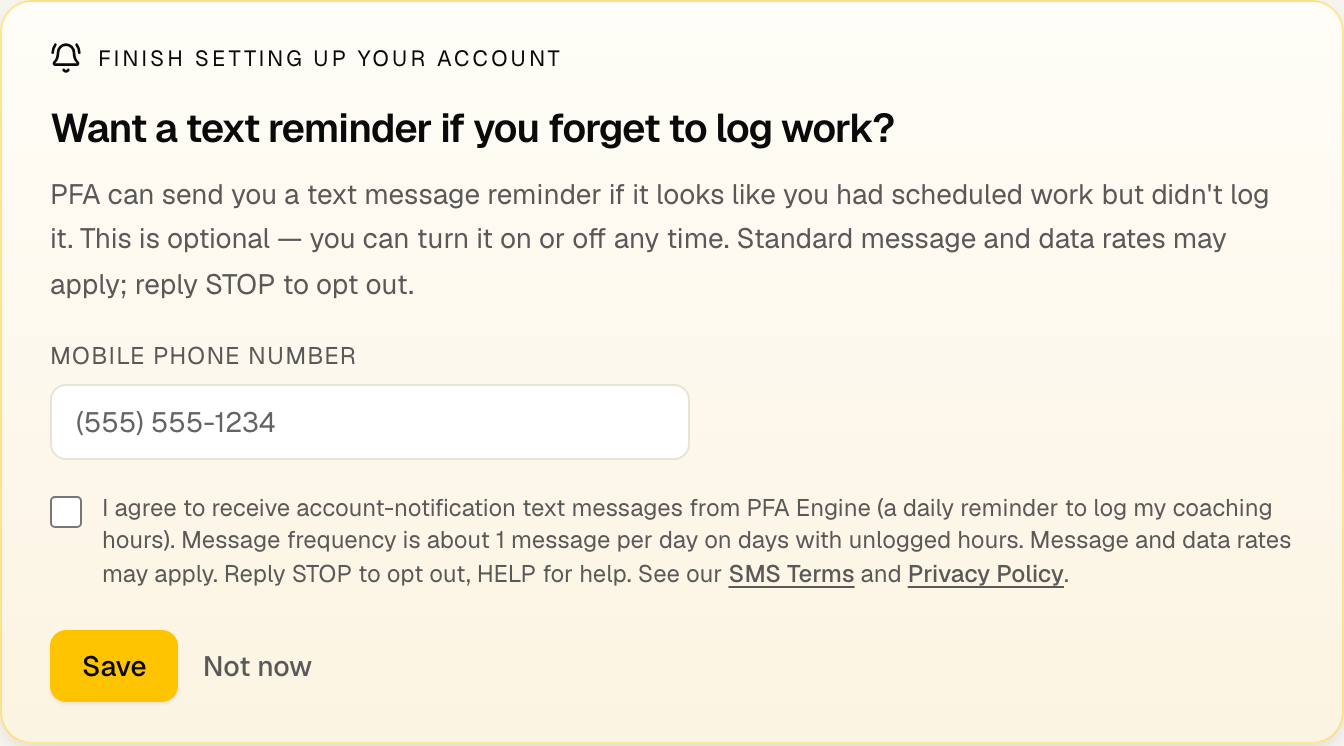
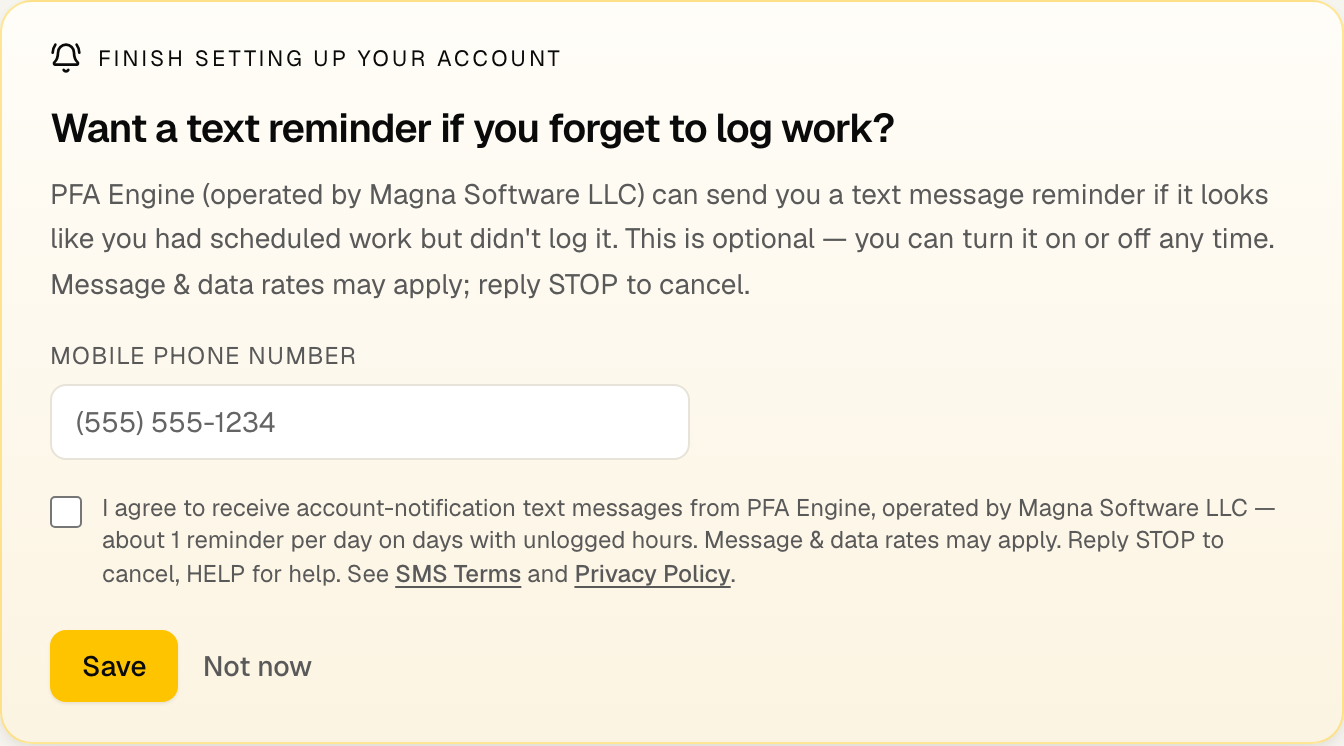
SMS opt-in: full disclosure + Magna Software LLC brand in the consent UI (A2P)
A2P 10DLC fixes. The in-app consent checkbox now carries the complete
disclosure with the registered brand: "…from PFA Engine, operated by Magna
Software LLC — about 1 reminder per day on days with unlogged hours.
Message & data rates may apply. Reply STOP to cancel, HELP for help. See
SMS Terms and Privacy Policy." Same brand+disclosure added to the intro and
the returning-user settings note. /sms-opt-in-evidence verbatim block updated
to match, and the consent-card screenshots regenerated (unchecked + checked)
so the evidence image itself shows it. Resolves brand-mismatch (30927) +
discloses everything at the checkbox, not only on the evidence page.

diff --git a/src/app/coach/_components/sms-reminder-card.tsx b/src/app/coach/_components/sms-reminder-card.tsx
@@ -124,10 +124,10 @@ export function SmsReminderCard({
           Want a text reminder if you forget to log work?
         </h2>
         <p className="mt-2 text-sm text-fg-muted leading-relaxed">
-          PFA can send you a text message reminder if it looks like you had
-          scheduled work but didn&apos;t log it. This is optional — you can
-          turn it on or off any time. Standard message and data rates may
-          apply; reply STOP to opt out.
+          PFA Engine (operated by Magna Software LLC) can send you a text
+          message reminder if it looks like you had scheduled work but
+          didn&apos;t log it. This is optional — you can turn it on or off any
+          time. Message &amp; data rates may apply; reply STOP to cancel.
         </p>
 
         <div className="mt-4 space-y-4">
@@ -166,10 +166,9 @@ export function SmsReminderCard({
               className="cursor-pointer text-xs text-fg-muted leading-snug"
             >
               I agree to receive account-notification text messages from PFA
-              Engine (a daily reminder to log my coaching hours). Message
-              frequency is about 1 message per day on days with unlogged hours.
-              Message and data rates may apply. Reply STOP to opt out, HELP for
-              help. See our{" "}
+              Engine, operated by Magna Software LLC — about 1 reminder per day
+              on days with unlogged hours. Message &amp; data rates may apply.
+              Reply STOP to cancel, HELP for help. See{" "}
               <a
                 href="/sms-terms"
                 target="_blank"
@@ -389,8 +388,9 @@ export function SmsReminderCard({
 function ConsentNote({ className }: { className?: string }) {
   return (
     <p className={`text-xs text-fg-subtle leading-snug ${className ?? ""}`}>
-      Message and data rates may apply; about 1 message/day on days with
-      unlogged hours. Reply STOP to opt out, HELP for help. See our{" "}
+      Account-notification texts from PFA Engine, operated by Magna Software
+      LLC — about 1 message/day on days with unlogged hours. Message &amp; data
+      rates may apply. Reply STOP to cancel, HELP for help. See{" "}
       <a
         href="/sms-terms"
         target="_blank"

diff --git a/src/app/sms-opt-in-evidence/page.tsx b/src/app/sms-opt-in-evidence/page.tsx
@@ -99,10 +99,10 @@ export default function SmsOptInEvidencePage() {
         <Section title="The exact consent disclosure">
           <p>This is the verbatim text a coach agrees to when they opt in:</p>
           <blockquote className="mt-2 rounded-lg border border-line bg-surface-2 p-4 text-fg">
-            I agree to receive account-notification text messages from PFA Engine
-            (a daily reminder to log my coaching hours). Message frequency is
-            about 1 message per day on days with unlogged hours. Message and data
-            rates may apply. Reply STOP to opt out, HELP for help.
+            I agree to receive account-notification text messages from PFA
+            Engine, operated by Magna Software LLC — about 1 reminder per day on
+            days with unlogged hours. Message &amp; data rates may apply. Reply
+            STOP to cancel, HELP for help. See SMS Terms and Privacy Policy.
           </blockquote>
         </Section>
 